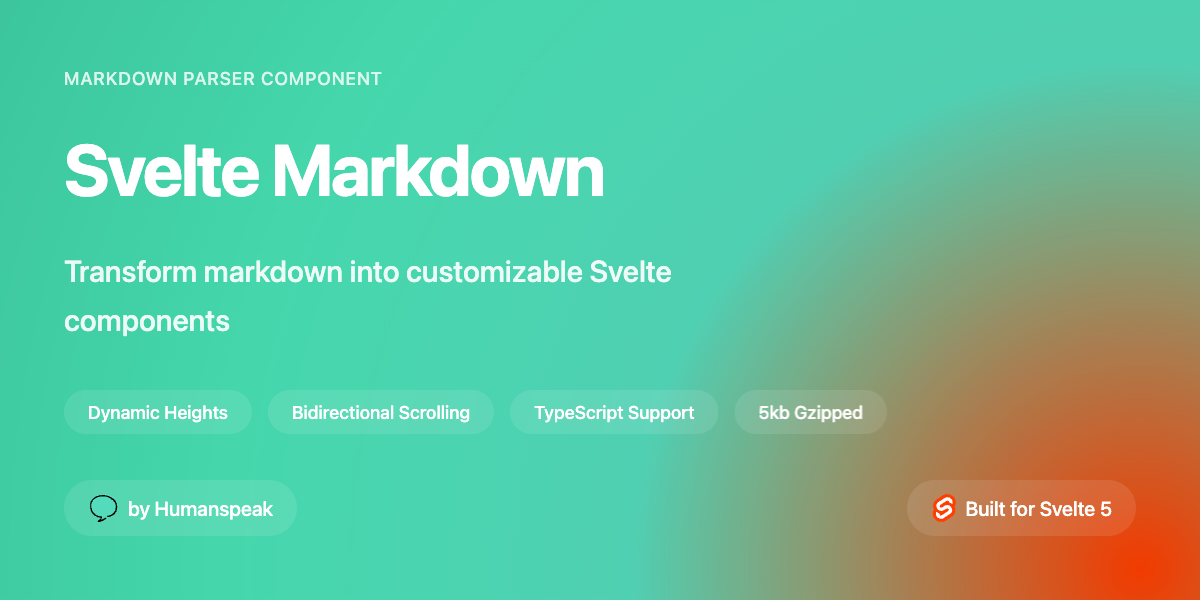
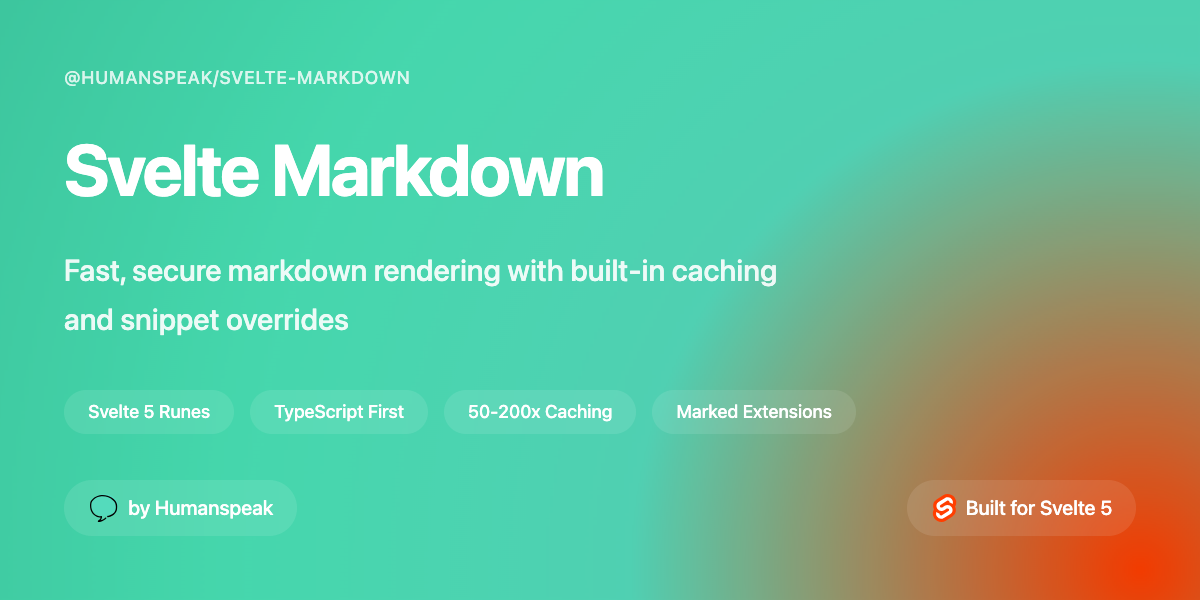
feat(docs): update social card content and feature highlights
Update OG/Twitter card to reflect current project capabilities:
- Tagline: @humanspeak/svelte-markdown package name
- Subtitle: fast, secure rendering with caching and snippets
- Feature pills: Svelte 5 Runes, TypeScript First, 50-200x
  Caching, Marked Extensions
- Regenerate card images with updated content

diff --git a/docs/src/lib/components/OG.svelte b/docs/src/lib/components/OG.svelte
@@ -1,0 +1,80 @@
+<script lang="ts">
+    const {
+        type = 'og',
+        url
+    }: {
+        type: 'og' | 'twitter'
+        url: string
+    } = $props()
+
+    const dimensions = {
+        og: { width: 1200, height: 630, name: 'OpenGraph Card' },
+        twitter: { width: 1200, height: 600, name: 'Twitter Card' }
+    }
+
+    const activeDimensions = $derived(dimensions[type])
+
+    const features = ['Svelte 5 Runes', 'TypeScript First', '50-200x Caching', 'Marked Extensions']
+</script>
+
+<div
+    id="social-card"
+    class="relative flex flex-col overflow-hidden p-16 text-white"
+    style:width="{activeDimensions.width}px"
+    style:height="{activeDimensions.height}px"
+    style="background: radial-gradient(circle at 95% 95%, #FF3E00 0%, #54DBBC 40%, #4AE3B6 70%, #40D1A7 100%);"
+>
+    <div class="absolute inset-0 flex bg-black/5 backdrop-blur-[1px]"></div>
+    <div class="relative flex h-full flex-col justify-between">
+        <!-- Header Section -->
+        <div class="flex flex-col space-y-8">
+            <div
+                class="flex flex-shrink-0 text-lg font-medium tracking-wider text-white/80 uppercase"
+            >
+                @humanspeak/svelte-markdown
+            </div>
+            <h1
+                class:text-8xl={type === 'og'}
+                class:text-7xl={type === 'twitter'}
+                class="leading-tight font-bold tracking-tight"
+            >
+                Svelte Markdown
+            </h1>
+            <p
+                class:text-4xl={type === 'og'}
+                class:text-3xl={type === 'twitter'}
+                class="max-w-3xl leading-relaxed font-medium text-white/90"
+            >
+                Fast, secure markdown rendering with built-in caching and snippet overrides
+            </p>
+        </div>
+
+        <!-- Features Section -->
+        <div class="flex flex-col justify-between space-y-12">
+            <!-- Feature Pills -->
+            <div class="flex flex-wrap gap-4">
+                {#each features as feature (feature)}
+                    <div
+                        class="flex flex-shrink-0 rounded-full bg-white/10 px-6 py-2 text-lg font-medium backdrop-blur-sm"
+                    >
+                        {feature}
+                    </div>
+                {/each}
+            </div>
+        </div>
+
+        <!-- Bottom Bar -->
+        <div class="flex w-full items-end justify-between">
+            <div
+                class="flex flex-shrink-0 items-center rounded-full bg-white/10 px-6 py-3 backdrop-blur-sm"
+            >
+                <img src="{url}/humanspeak.svg" alt="Logo" class="mr-2 h-8" />
+                <span class="text-xl font-medium">by Humanspeak</span>
+            </div>
+            <div class="flex items-center rounded-full bg-white/10 px-6 py-3 backdrop-blur-sm">
+                <img src="{url}/svelte-logo.svg" alt="Svelte" class="mr-2 h-8" />
+                <span class="text-xl font-medium">Built for Svelte 5</span>
+            </div>
+        </div>
+    </div>
+</div>

diff --git a/docs/src/routes/social-cards/+page.svelte b/docs/src/routes/social-cards/+page.svelte
@@ -1,0 +1,10 @@
+<script lang="ts">
+    import { page } from '$app/state'
+    import OG from '$lib/components/OG.svelte'
+
+    const cardType: 'og' | 'twitter' = $derived(page.url.searchParams.get('type') || 'og') as
+        | 'og'
+        | 'twitter'
+</script>
+
+<OG type={cardType} url={page.url.origin} />

diff --git a/docs/src/routes/social-cards/+layout.svelte b/docs/src/routes/social-cards/+layout.svelte
@@ -1,0 +1,5 @@
+<script lang="ts">
+    const { children } = $props()
+</script>
+
+{@render children?.()}
